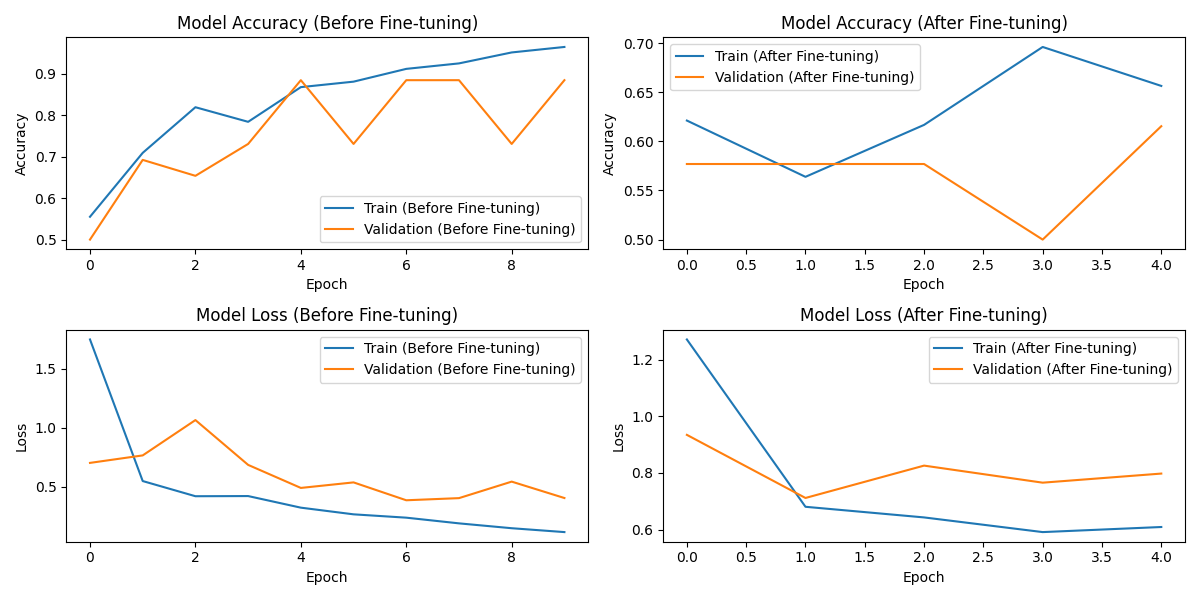
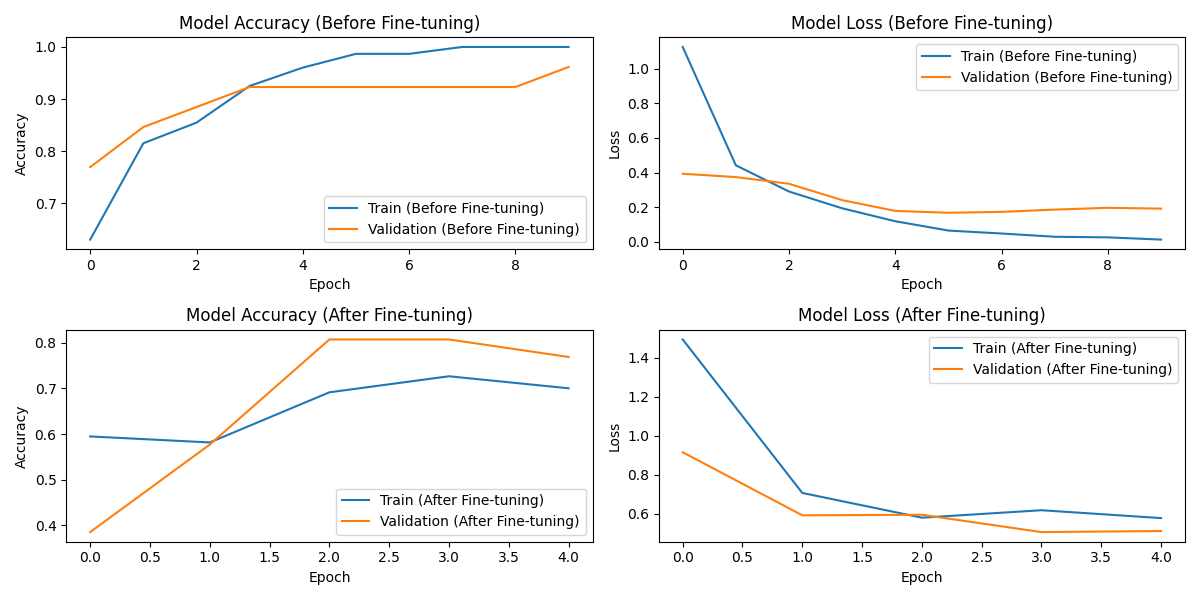
made fine tuning optional, experimented with trainable layers

diff --git a/Brain_tumour_detector.py b/Brain_tumour_detector.py
@@ -104,7 +104,7 @@ def create_model():
     
     return detection_model, base_model
 
-def train_model(detection_model, base_model, X_train, y_train, X_val, y_val):
+def train_model(detection_model, base_model, X_train, y_train, X_val, y_val, fine_tune=False):
     '''
     Trains the model.
     
@@ -134,15 +134,19 @@ def train_model(detection_model, base_model, X_train, y_train, X_val, y_val):
     '''
     history_pre = detection_model.fit(X_train, y_train, epochs=10, validation_data=(X_val, y_val))
     
-    for layer in base_model.layers[:10]:
-        layer.trainable = True
+    if fine_tune:
+        for layer in base_model.layers[:10]:
+            layer.trainable = True
 
-    detection_model.compile(optimizer='adam', loss='binary_crossentropy', metrics=['accuracy'])
-    history_post = detection_model.fit(X_train, y_train, epochs=5, validation_data=(X_val, y_val))
+        detection_model.compile(optimizer='adam', loss='binary_crossentropy', metrics=['accuracy'])
+        history_post = detection_model.fit(X_train, y_train, epochs=5, validation_data=(X_val, y_val))
+        
+        return detection_model, history_pre, history_post
     
-    return detection_model, history_pre, history_post
+    else:
+        return detection_model, history_pre, None
 
-def plot_statistics(history_pre, history_post, detection_model, X_val, y_val, save_path_statistics='Figures/statistics.png', save_path_cm='Figures/confusion_matrix.png'):
+def plot_statistics(history_pre, history_post, detection_model, X_val, y_val, fine_tune=False, save_path_statistics='Figures/statistics.png', save_path_cm='Figures/confusion_matrix.png'):
     '''
     Function to plot the accuracy and loss of the model before and after fine-tuning, and the confusion matrix.
     
@@ -174,18 +178,9 @@ def plot_statistics(history_pre, history_post, detection_model, X_val, y_val, sa
     plt.xlabel('Epoch')
     plt.ylabel('Accuracy')
     plt.legend()
-    
-    # Plot accuracy from the second training session (fine-tuning)
-    plt.subplot(2, 2, 2)
-    plt.plot(history_post.history['accuracy'], label='Train (After Fine-tuning)')
-    plt.plot(history_post.history['val_accuracy'], label='Validation (After Fine-tuning)')
-    plt.title('Model Accuracy (After Fine-tuning)')
-    plt.xlabel('Epoch')
-    plt.ylabel('Accuracy')
-    plt.legend()
 
     # Plot loss from the first training session
-    plt.subplot(2, 2, 3)
+    plt.subplot(2, 2, 2)
     plt.plot(history_pre.history['loss'], label='Train (Before Fine-tuning)')
     plt.plot(history_pre.history['val_loss'], label='Validation (Before Fine-tuning)')
     plt.title('Model Loss (Before Fine-tuning)')
@@ -193,14 +188,24 @@ def plot_statistics(history_pre, history_post, detection_model, X_val, y_val, sa
     plt.ylabel('Loss')
     plt.legend()
     
-    # Plot loss from the second training session (fine-tuning)
-    plt.subplot(2, 2, 4)
-    plt.plot(history_post.history['loss'], label='Train (After Fine-tuning)')
-    plt.plot(history_post.history['val_loss'], label='Validation (After Fine-tuning)')
-    plt.title('Model Loss (After Fine-tuning)')
-    plt.xlabel('Epoch')
-    plt.ylabel('Loss')
-    plt.legend()
+    if fine_tune:
+        # Plot accuracy from the second training session (fine-tuning)
+        plt.subplot(2, 2, 3)
+        plt.plot(history_post.history['accuracy'], label='Train (After Fine-tuning)')
+        plt.plot(history_post.history['val_accuracy'], label='Validation (After Fine-tuning)')
+        plt.title('Model Accuracy (After Fine-tuning)')
+        plt.xlabel('Epoch')
+        plt.ylabel('Accuracy')
+        plt.legend()
+        
+        # Plot loss from the second training session (fine-tuning)
+        plt.subplot(2, 2, 4)
+        plt.plot(history_post.history['loss'], label='Train (After Fine-tuning)')
+        plt.plot(history_post.history['val_loss'], label='Validation (After Fine-tuning)')
+        plt.title('Model Loss (After Fine-tuning)')
+        plt.xlabel('Epoch')
+        plt.ylabel('Loss')
+        plt.legend()
     
     plt.tight_layout()
     plt.savefig(save_path_statistics)
@@ -220,7 +225,7 @@ if __name__ == '__main__':
     
     # Initializing and training the model
     detection_model, base_model = create_model()
-    detection_model, history_pre, history_post = train_model(detection_model, base_model, X_train, y_train, X_val, y_val)
+    detection_model, history_pre, history_post = train_model(detection_model, base_model, X_train, y_train, X_val, y_val, fine_tune=True)
     
     # Plotting statistics
-    plot_statistics(history_pre, history_post, detection_model, X_val, y_val)
+    plot_statistics(history_pre, history_post, detection_model, X_val, y_val, fine_tune=True)
